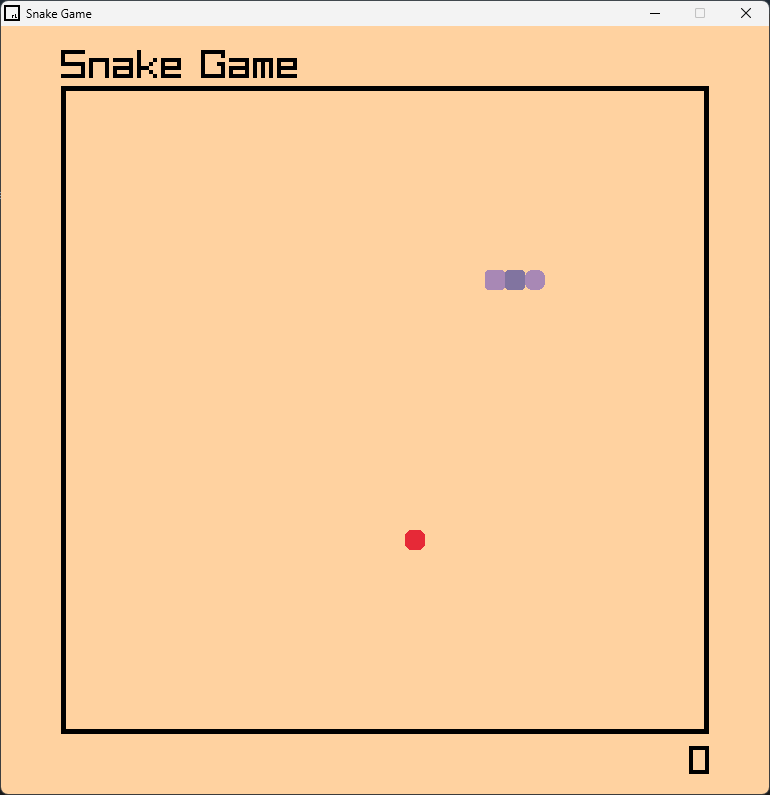
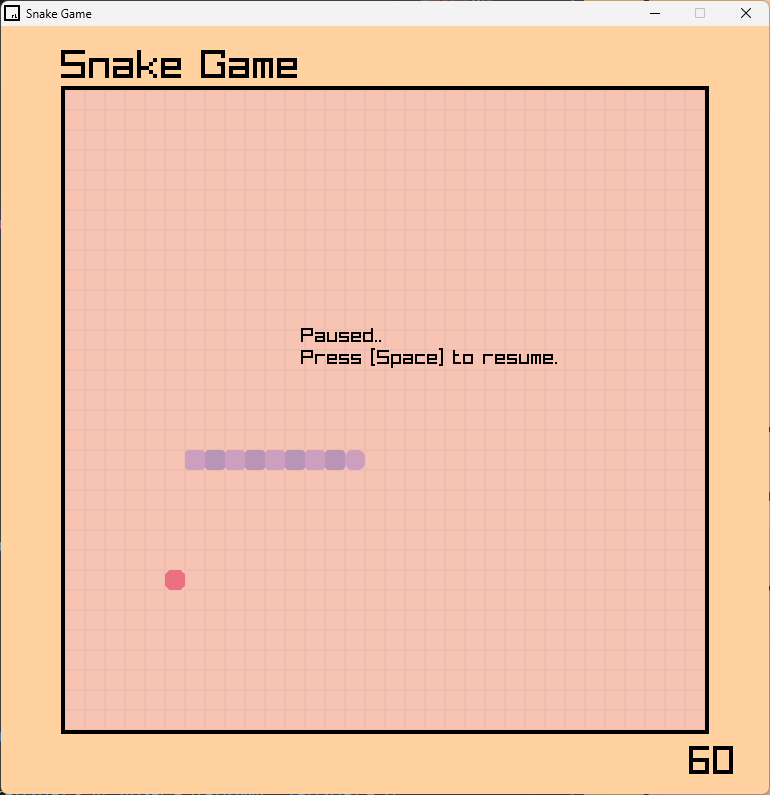
Add grid

diff --git a/snakegame.cpp b/snakegame.cpp
@@ -173,6 +173,16 @@ class Game {
             
         }
 };
+
+void drawGrid() {
+    for (int i = 0; i<cellCount; i++) {
+        for (int j = 0; j <cellCount; j++) {
+            Color grid = {0, 0, 0, 16};
+            Rectangle rect = {(float)(i * cellSize + offset), (float)(j * cellSize + offset), (float)cellSize, (float)cellSize};
+            DrawRectangleLinesEx(rect, 0.8, grid);
+        }
+    }
+}
 int main() {
 
     std::cout << "Starting Game..." << std::endl;
@@ -196,9 +206,10 @@ int main() {
         
         ClearBackground(Background);
         Rectangle borders = {(float) offset - 4, (float)offset - 4, (float)cellSize*cellCount + 8, (float)cellSize*cellCount + 8};
-        DrawRectangleLinesEx(borders, 5, BLACK);
+        DrawRectangleLinesEx(borders, 4, BLACK);
         DrawText("Snake Game", offset - 4, 20, 40, BLACK);
         DrawText(TextFormat("%i", game.score), offset + (cellCount * cellSize) - 16, offset + (cellCount * cellSize) + 12, 40, BLACK);
+        drawGrid();
         game.Draw();
         EndDrawing();
     }

diff --git a/README.md b/README.md
@@ -3,5 +3,5 @@
 A simple snake game in C++ using Raylib.
 
 ![snake_game](Images/snake_game%20(1).png)
-![snake_game](Images/snake_game%20(2).png)
 ![snake_game](Images/snake_game%20(3).png)
+![snake_game](Images/snake_game%20(2).png)
